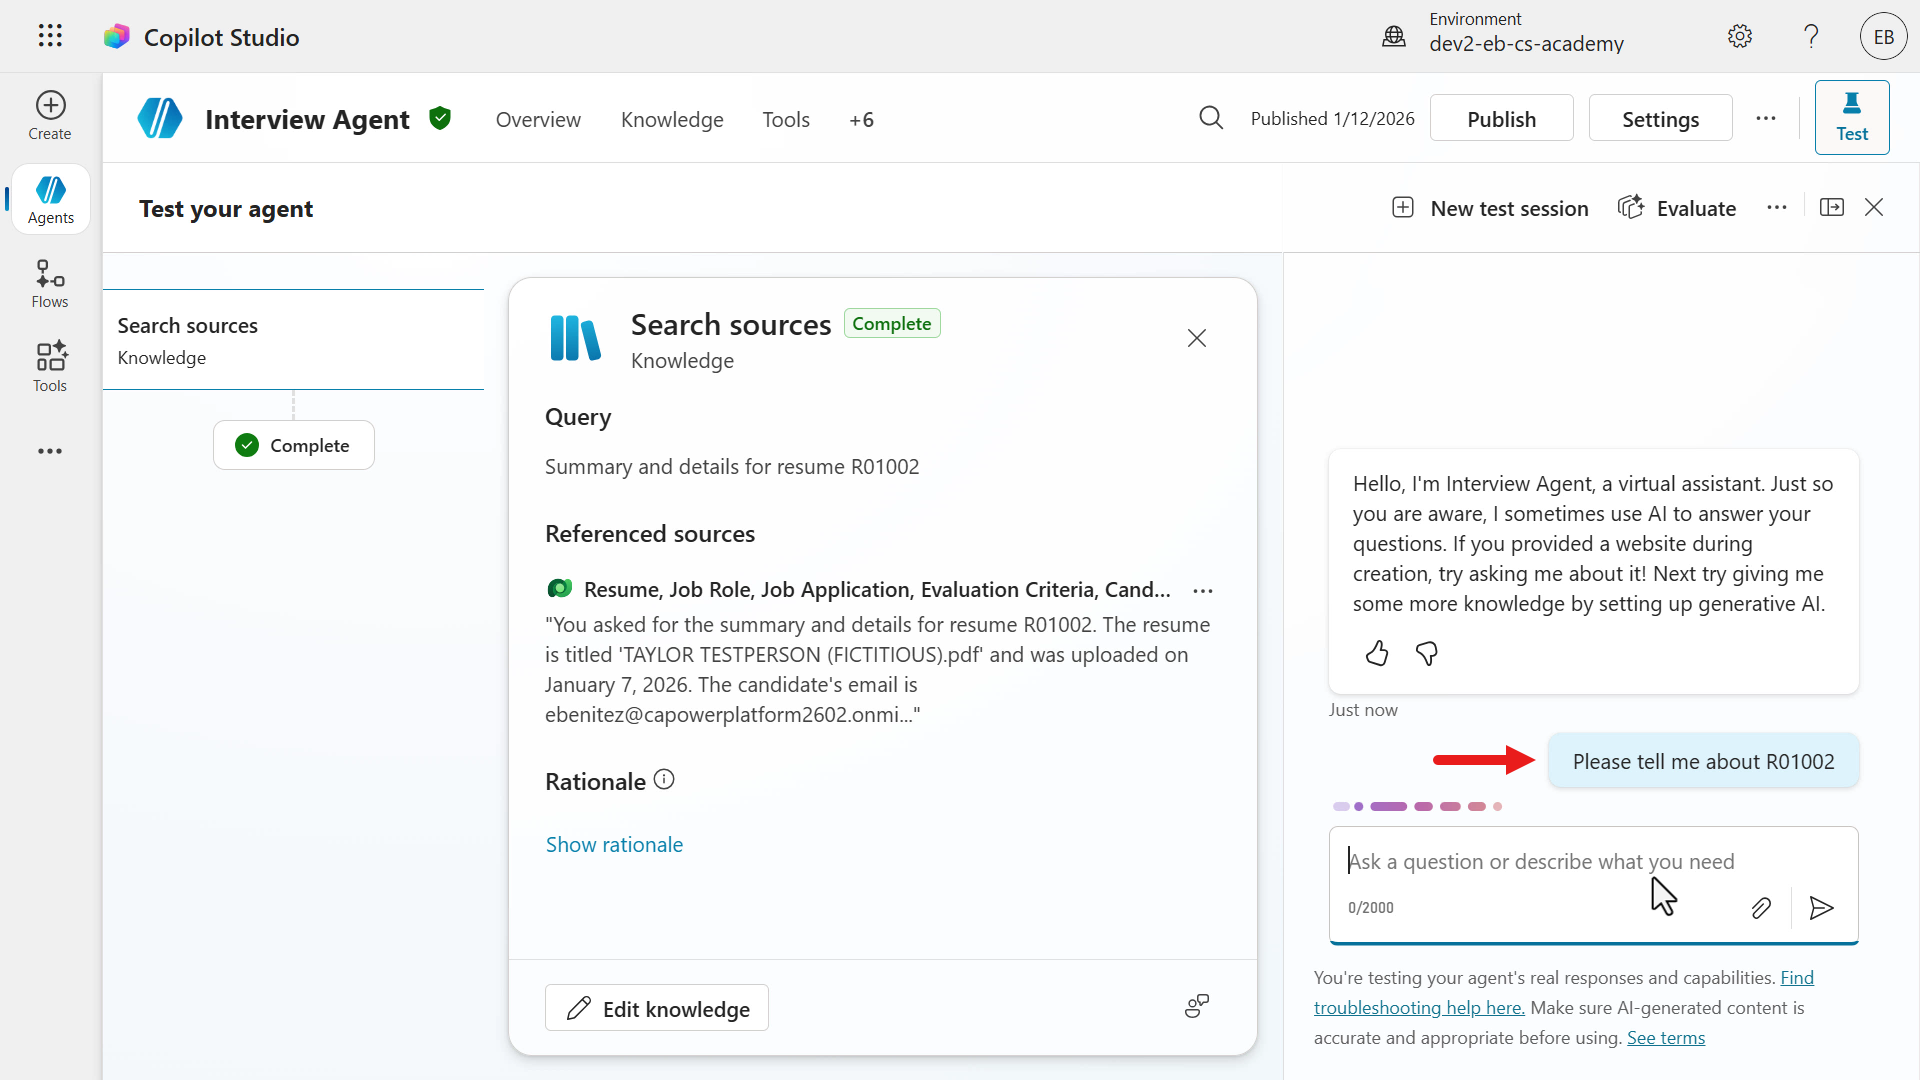
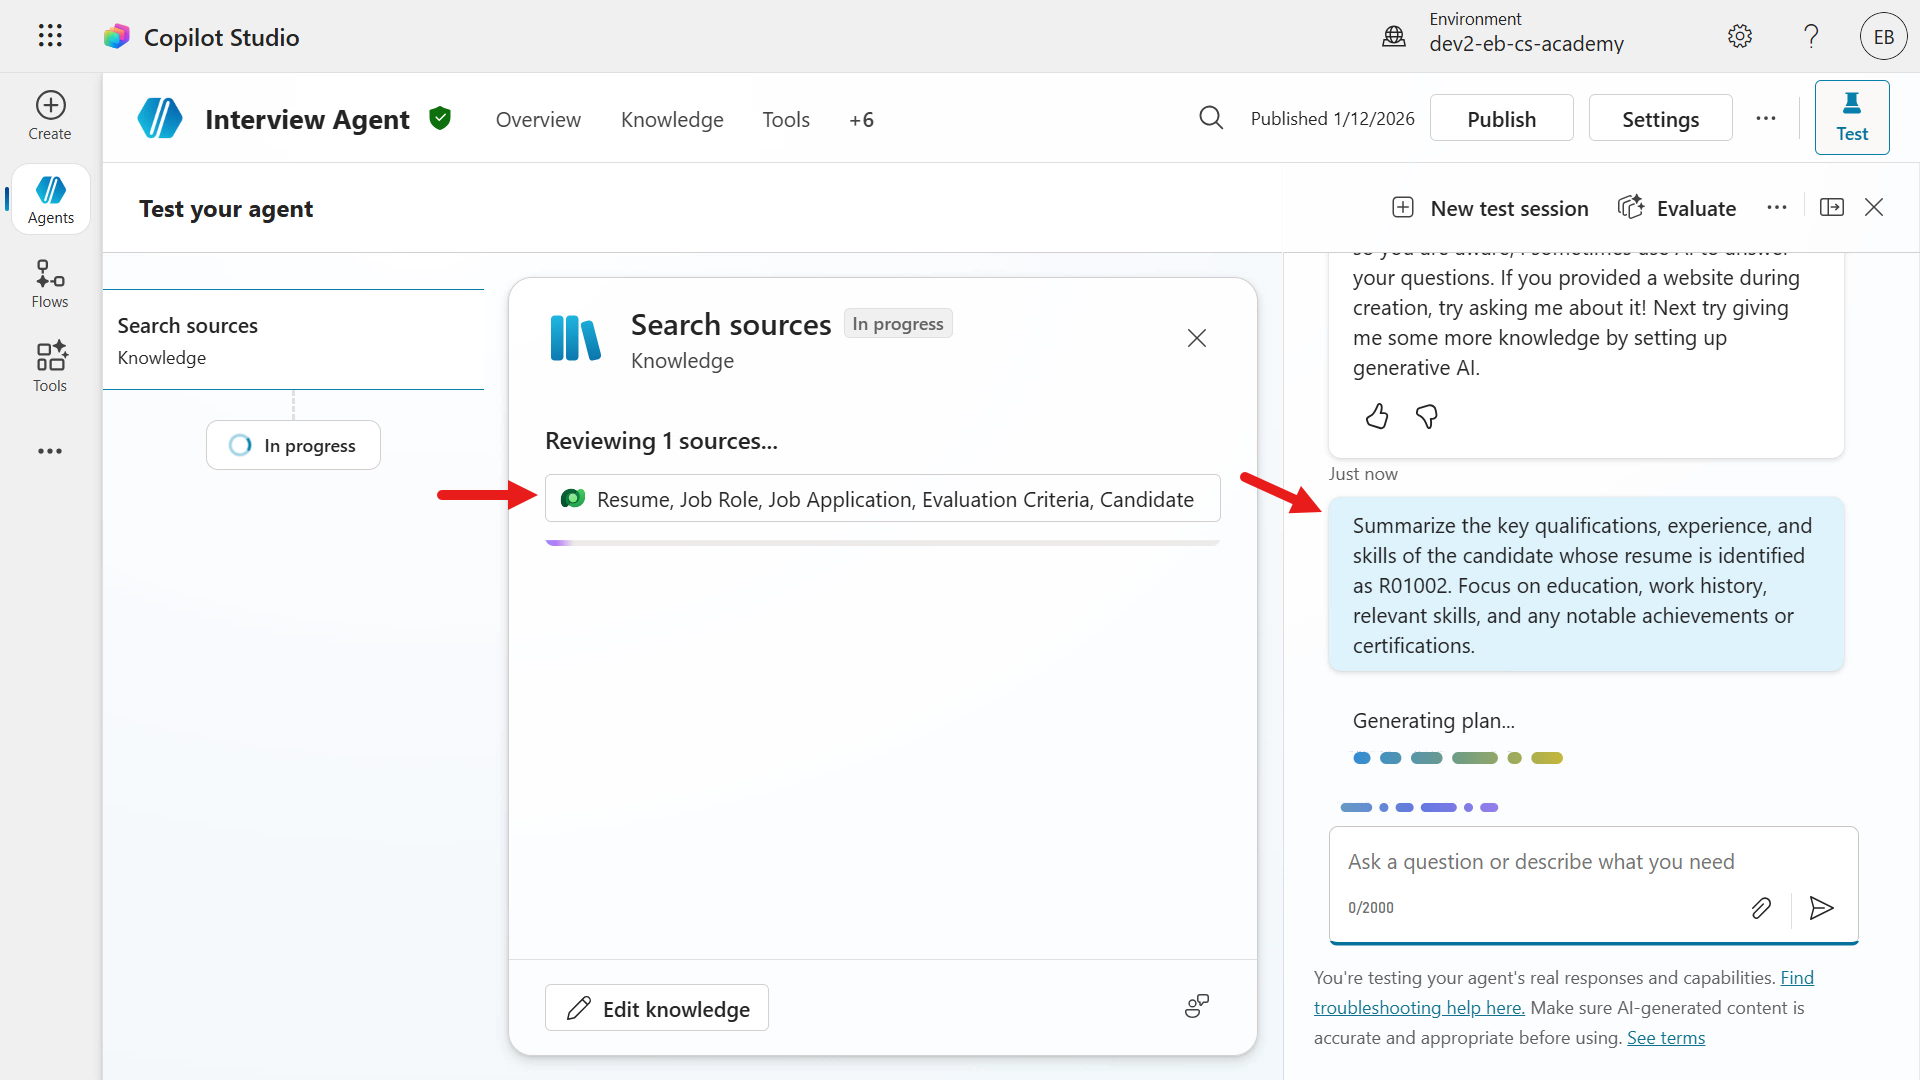
Updated lab instructions in docs\operative\05-model-selection\index.md  and docs\operative\04-automate-triggers\index.md

diff --git a/docs/operative/05-model-selection/index.md b/docs/operative/05-model-selection/index.md
@@ -80,8 +80,8 @@ AI capabilities evolve rapidly, and Copilot Studio keeps up by offering a range 
 | **GPT‑5 Chat** | General | Preview | Advanced conversational abilities with strong context retention; produces human-like dialogue. | Employee self-service chatbots; IT/HR helpdesk assistants; interactive agents requiring natural, human-like responses. |
 | **GPT‑5 Auto** | Auto | General | Optimized for orchestrating multi-step workflows; can automate actions across systems (not just chit-chat). | End-to-end process automation (e.g. ticket creation to resolution); multi-step task sequences across apps; "digital project manager" scenarios. |
 | **GPT‑5 Reasoning** | Deep | Preview | - Latest model optimized for complex reasoning (trained up to Oct 2024) - High scores in document understanding and response accuracy | Advanced reasoning tasks where top-tier analytical capability is required (such as extensive planning, interpreting complex data). Again, use cautiously in testing since it’s a preview model. |
-| **GPT‑5.1 Chat** | General | Experimental | Latest experimental conversational model with broad task proficiency; improves on context awareness and responsiveness. | General-purpose Q&A and dialogue tasks leveraging the newest model’s capabilities; versatile chatbot scenarios where enhanced performance is beneficial. |
-| **GPT‑5.1 Reasoning** | Deep | Experimental | Experimental top-tier reasoning model offering maximum depth and accuracy for complex tasks. | Ultra-complex analytical queries or decision support requiring the highest precision (e.g. intricate strategic planning, high-stakes data analysis). |
+| **GPT‑5.2 Chat** | General | Experimental | Latest experimental conversational model with with further improved context awareness; broad task proficiency. | General-purpose Q&A and dialogue tasks leveraging the newest model's capabilities; complex chatbot interactions where enhanced performance is beneficial. |
+| **GPT‑5.2 Reasoning** | Deep | Experimental | Experimental top-tier reasoning model offering maximum depth and accuracy for complex tasks. | Ultra-complex analytical queries or decision support requiring the highest precision (e.g. intricate strategic planning, high-stakes data analysis). |
 
 > [!WARNING]
 >
@@ -174,7 +174,7 @@ Here are the key admin controls affecting which models a maker/developer can sel
 
 ![Allow Anthropic provider setting in Microsoft 365 admin center](./assets/5.0_05_AllowAnthropicProvider.png)
 
-    An admin can also toggle whether external models are available in a given environment in the Power Platform admin center.
+   An admin can also toggle whether external models are available in a given environment in the Power Platform admin center.
 
 ![Enable external model setting](./assets/5.0_03_EnableExternalModelsSetting.png)
 
@@ -299,43 +299,77 @@ In this lab, you’ll compare responses, including the formatting, from three di
     ```text
     For all agent responses to questions, follow these rules exactly:
 
-    ## Dates
-    - All dates MUST always be formatted as 'MMM dd, yyyy'. Example: Jan 10, 2026
+    # Dates
 
-    ## Resume information
+    - All dates MUST always be formatted as 'MMM dd, yyyy'. Example:  
+
+    # Resume information
+
     - For resume information, start with the Resume Number as the header in bold, followed by bullet points.
-    - All references to dates must be formatted as 'MMM dd, yyyy'. Example: 'January 7, 2026' becomes 'Jan 07, 2026'
+    - Example:
     ```
 
-1. **Save** and exit from **Settings**.
+    ![Response formatting instructions of agent](assets/5.1_01_SettingsResponses.png)
+
+1. For the two date format examples in the instructions, we're going to add a Power Fx formula. Click after the first `Example:` and select the **Power Fx** icon. Copy and paste the following formula, then select **Insert**.
+
+    ```text
+    Text(DateTimeValue("2026-01-06T13:45:54Z"), "MMM dd, yyyy")
+    ```
+
+    ![Inserting a Power Fx formula](assets/5.1_02_PowerFxFormula.png)
+
+1. You'll see the formula added in the instructions for the first example. Repeat the same steps for the second `Example:` and select **Save** to save the response formatting settings.
+
+    ![Power Fx formula added to response formatting instructions](assets/5.1_03_PowerFxFormulasAdded.png)
+
+1. Exit from **Settings**.
 
 ### Lab 5.2 - Compare model responses and formatting
 
-Let's compare the responses of the GPT-4.1 default model with the GPT-5 Auto preview model.
+Let's compare the responses of the GPT-4.1 default model with the GPT-5 Chat preview model and the Claude Sonnet 4.5 experimental model.
+
+> [!WARNING] Responses may differ across test sessions
+>
+> Each conversation in a test session can produce slightly different responses, since the selected generative AI model creates answers dynamically rather than returning fixed replies.
 
 1. Start a new test session in the **Interview Agent** and enter the following question below. Use a **Resume Number** value from your existing active resumes in the **Hiring Hub** model-driven app.
 
     ```text
-    Summarize resume RXXXXX
+    Summarize the key qualifications, experience, and skills of the candidate whose resume is identified as R#####. Focus on education, work history, relevant skills, and any notable achievements or certifications.
     ```
 
     ![Enter first question for GPT-4.1 default model](assets/5.2_01_GPT4.1Model.png)
 
-1. A summary of the resume will next be displayed. How did it align with our response formatting? We can see the output starts with the Resume Number in bold, followed by bullet points. There's also a reference to the Dataverse row for the **Active Resumes** system view.
+1. A summary of the resume will next be displayed. How did it align with our response formatting? We can see the output starts with the Resume Number in bold, followed by bullet points.
 
-    ![Question 1 response for GPT-4.1 default model](assets/5.2_02_GPT4.1_Question1Response.png)
+    ![Question 1 response for GPT-4.1 default model](assets/5.2_02_GPT4.1_FormatCheck.png)
 
-    Except the date format wasn't followed by the model in the summary, highlighted in yellow in the screenshot. Let's try another date related question to see if the model's answer follows the response format we instructed for dates (`MMM dd, yyyy`).
+    It's also good to check the agent's response matches whats in the Dataverse resume row and the PDF file.
 
-1. Enter the question below.
+    ![Certifications returned by the model](assets/5.2_02_GPT4.1_Question1Response.png)
+
+    We can see that the certifications are correct when reviewing the associated Resume file.
+
+    ![Verify certifications in Resume file](assets/5.2_02_GPT4.1_Question1ResponseCheck.png)
+
+    Let's do one more check by reviewing the skills listed.
+
+    ![Skills returned by the model](assets/5.2_03_GPT4.1_Question1Response.png)
+
+    The skills returned by the model are correct when reviewing the associated Resume file. Great!
+
+    ![Verify skills in Resume file](assets/5.2_03_GPT4.1_Question1ResponseCheck.png)
+
+1. Next, we'll verify the date formatting is followed by the agent. Enter the question below.
 
     ```text
     When was the upload date?
     ```
 
-    ![Question 2 response for GPT-4.1 default model](assets/5.2_03_GPT4.1_Question2Response.png)
+    ![Question 2 response for GPT-4.1 default model](assets/5.2_04_GPT4.1_Question2Response.png)
 
-    You can see that the model still didn't respond using the date format.
+    You can see that the model did not correctly follow the date format.
 
 1. We'll ask another question for suggestions of interview questions to ask based on the evaluation criteria of a job role, and provide what the potential answers are. Enter the question below.
 
@@ -343,39 +377,39 @@ Let's compare the responses of the GPT-4.1 default model with the GPT-5 Auto pre
     Can you provide suggestions of questions to ask in an interview for the Power Platform developer role (Job role number J1004) based on its associated evaluation criteria? Can you also please provide what the answers may be for each question?
     ```
 
-    The returned response lists interview questions in numbered format. Each question is followed by a `Model Answer`. Notice how the answer is in third person, where it's outlining the expected answers from the candidate to the question asked.
+    The returned response lists interview questions by evaluation criteria. Each question is followed by a `Model Answer`. Notice how the answer is in _first person_, where it's outlining the expected answers from the candidate to the question asked.
 
-    ![Question 3 response for GPT-4.1 default model](assets/5.2_04_GPT4.1_01_Question3Response.png)
+    ![Question 3 response for GPT-4.1 default model](assets/5.2_05_GPT4.1_01_Question3Response.png)
 
-    ![Question 3 response for GPT-4.1 default model](assets/5.2_04_GPT4.1_02_Question3Response.png)
+    ![Question 3 response for GPT-4.1 default model](assets/5.2_05_GPT4.1_02_Question3Response.png)
 
 1. Let's now change the agent's model. In the **Overview** tab select the **chevron** icon and from the list of **OpenAI** models, select **GPT-5 Auto**.
 
     A confirmation message will appear shortly to inform you that the agent model has been updated. Let's now test the responses of this model by starting a new test session.
 
-1. Enter the following question below. Use a **Resume Number** value from your existing active resumes in the **Hiring Hub** model-driven app.
+    Enter the following question below. Use a **Resume Number** value from your existing active resumes in the **Hiring Hub** model-driven app.
 
     ```text
-    Summarize resume RXXXXX
+    Summarize the key qualifications, experience, and skills of the candidate whose resume is identified as R#####. Focus on education, work history, relevant skills, and any notable achievements or certifications.
     ```
 
-    ![Question 1 for GPT-5 Auto preview model](assets/5.2_05_GPT5Model.png)
+    ![Question 1 for GPT-5 Auto preview model](assets/5.2_06_GPT5Model.png)
 
-1. A response with the summarized resume is returned. Notice how it is shorter and more concise compared to the previous model's response.
+1. A response with the summarized resume is returned. Notice how the information returned is slightly different to the previous model's response and also provides a suggestion of how it can next be helpful.
 
-    ![Question 1 response for GPT-5 Auto preview model](assets/5.2_06_GPT5_Question1Response.png)
+    ![Question 1 response for GPT-5 Auto preview model](assets/5.2_07_GPT5_01_Question1Response.png)
 
-    Except the date format wasn't followed by the model in the summary, highlighted in yellow in the screenshot. Let's try another date related question to see if the model's answer follows the response format we instructed for dates (`MMM dd, yyyy`).
+    ![Question 1 response for GPT-5 Auto preview model](assets/5.2_07_GPT5_02_Question1Response.png)  
 
-1. Enter the question below.
+1. We'll now check if this model follows the date format instructions better than the previous model. Enter the question below.
 
     ```text
     When was the upload date?
     ```
 
-    ![Question 2 response for GPT-5 Auto preview model](assets/5.2_07_GPT5_Question1Response.png)
+    ![Question 2 response for GPT-5 Auto preview model](assets/5.2_08_GPT5_Question2Response.png)
 
-    You can see that the model correctly responded using the date format.
+    You can see that the model did not correctly follow the date format.
 
 1. We'll ask the same third question for a list of interview questions based on the evaluation criteria of a job role, and provide what the potential answers are. Enter the question below.
 
@@ -385,35 +419,84 @@ Let's compare the responses of the GPT-4.1 default model with the GPT-5 Auto pre
 
     A response with the suggested list of interview questions is returned with by the criteria outlined in the Job Role Dataverse row, and the potential answers a candidate can provide during the interview. Notice how this time,
 
-    - The response is organized under **criteria**, **question** and **subsections**
-        - **Criteria**: Certifications (10%)
+    - The response is organized under **criteria**, **question** and **answer**
+        - **Criteria**:
             - This indicates the criteria evaluated
-        - **Question**: What from PL-400/PL-600 changed your day-to-day practice?
-            - This indicates the interview question being evaluated
-        - **Strong Answer Indicators, Acceptable and Red Flags**:
-            - This subsection lists points that the agent considers strong, acceptable or not acceptable in a candidate's response.
+        - **Question**:
+            - The interview question being evaluated
+        - **Answer**:
+            - This subsection lists points that the agent considers acceptable strong answers in a candidate's response.
 
-       ![Question 3 response for GPT-5 Auto preview model](assets/5.2_08_GPT5_01_Question3Response.png)
+    ![Question 3 response for GPT-5 Auto preview model](assets/5.2_09_GPT5_01_Question3Response.png)
 
-1. The model also provides a suggestion of how it can tailor questions to a resume or application, and also includes the reference format based on the agent's instructions we set up in [Mission 03](../03-multi-agent/index.md): Building multi-agent systems.
+1. The model also provides a suggestion of how it can tailor questions to a resume, and also includes a reference to the resume.
 
-       ![Question 3 response for for GPT-5 Auto preview model](assets/5.2_08_GPT5_02_Question3Response.png)
+    ![Suggestions on how the model can next be helpful](assets/5.2_09_GPT5_02_Question3Response.png)
 
-1. Let's now change the agent's model to one of the external models. In the **Overview** tab select the **chevron** icon and from the list of **Anthropic** models, select **Claude Sonnet 4.5 (Experimental)**.
+1. Let's now change the agent's model to one of the external models.
+
+    > [!IMPORTANT]
+    >
+    > You need to make sure you have the settings enabled for `Allow Preview & Experimental Models` and `Allow Preview & Experimental Models` as [outlined earlier](index.md/#%F0%9F%94%90-admin-controls-for-ai-model-selection) in this mission.
+    >
+    > If you don't have admin rights and cannot enable the settings, you can skip the hands-on steps for the remainder of this exercise.
+
+    In the **Overview** tab select the **chevron** icon and from the list of **Anthropic** models, select **Claude Sonnet 4.5 (Experimental)**.
 
     A confirmation message will appear shortly to inform you that the agent model has been updated. Let's now test the responses of this model by starting a new test session.
 
 1. Enter the following question below. Use a **Resume Number** value from your existing active resumes in the **Hiring Hub** model-driven app.
 
     ```text
-    Summarize resume RXXXXX
+    Summarize the key qualifications, experience, and skills of the candidate whose resume is identified as R#####. Focus on education, work history, relevant skills, and any notable achievements or certifications.
     ```
+
+    ![Question 1 for Claude Sonnet 4.5 experimental model](assets/5.2_10_ClaudeSonnet4.5Model.png)
+
+    We can also see the thought process of the model as it's generating its response.
+
+    ![Thought process of the model](assets/5.2_11_ThoughtProcess.png)
+
+1. The response this time is more concise and we can see that the date format was also correctly followed.
+
+    ![Question 1 response for Claude Sonnet 4.5 experimental model](assets/5.2_12_Question1Response.png)
+
+1. We'll still ask the same second question to verify that the date format is being correctly followed since we tested this with the two previous models.
+
+    ![Question 2 response for Claude Sonnet 4.5 experimental model](assets/5.2_13_Question2Response.png)
+
+    You can see that the date format was correctly followed.
+
+1. We'll ask the same third question for a list of interview questions based on the evaluation criteria of a job role, and provide what the potential answers are. Enter the question below.
+
+    ```text
+    Can you provide suggestions of questions to ask in an interview for the Power Platform developer role (Job role number J1004) based on its associated evaluation criteria? Can you also please provide what the answers may be for each question?
+    ```
+
+    A response with the suggested list of interview questions is returned with by the criteria outlined in the Job Role Dataverse row, and the potential answers a candidate can provide during the interview. Notice how this time,
+
+    - The response is organized under **criteria**, **question** and **answer**
+        - **Criteria**:
+            - This indicates the criteria evaluated
+        - **Question**:
+            - The interview question being evaluated
+        - **Answer**:
+            - This provides a suggested sample answer and notice how the answer is in _first person_, where it's outlining the expected answer from the candidate to the question asked.
+
+    ![Question 3 response for GPT-5 Auto preview model](assets/5.2_14_01_Question3Response.png)
+
+    ![Question 3 response for GPT-5 Auto preview model](assets/5.2_14_02_Question3Response.png)
+
+    And that's the end of this lab!
+
+    > [!NOTE] EXPLORE MODELS
+    > Try experimenting with different models. Some perform better at reasoning, others at creativity, and models like Anthropic excel at following detailed response instructions. That’s why it's worth testing multiple models to find the best fit for your specific scenario.
 
 ## ✅ Mission Complete
 
 Congratulations! 👏🏻 Excellent work, Operative.
 
-You learned about the differences in the available models and how it affects your agent output. This enables the **Interview Agent** to be equipped in answering questions and inquiries using the power of the selected model.
+You learned about response formatting, the strengths of different available models, and how those choices impact your agent's output. This enables the **Interview Agent** to be equipped in answering questions and inquiries using the power of the selected model.
 
 This is the end of **Lab 05 - Understanding Agent Models**, select the link below to move to the next mission.
 

diff --git a/docs/operative/04-automate-triggers/index.md b/docs/operative/04-automate-triggers/index.md
@@ -543,6 +543,9 @@ To complete this lab you will need to:
 
 1. Select **Edit** in the **Details** section and update the **Plan** to the **Copilot Studio** option.
 
+    > [!NOTE]
+    > Converting the plan to Copilot Studio allows you to manage the event trigger flow in Copilot Studio and consume Copilot Studio capacity instead of Power Automate billing.
+
     Select **Save**.
 
     ![Change Copilot Studio plan](assets/3.1_46_ChangePlanDetails.png)
